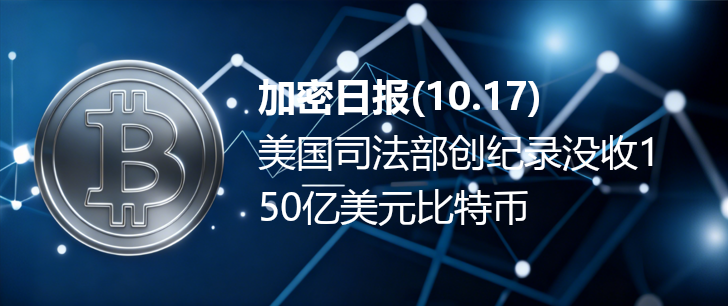
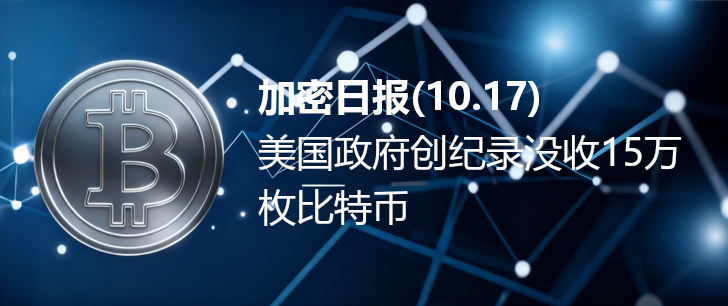
daily_news

Changed region(s): [[0.4533, 0.4412, 0.9368, 0.5588], [0.3324, 0.6176, 0.7253, 0.7353]]

diff --git a/files/latest_summary.md b/files/latest_summary.md
@@ -1,23 +1,21 @@
-### 一、美国政府对加密货币资产的执法与监管行动  
+### 一、美国政府对加密货币犯罪资产的执法行动  
 **总结**：  
-1. 美国司法部对柬埔寨太子集团创始人陈志提起刑事指控，申请没收其控制的127,271枚比特币（市值约150亿美元），为全球最大比特币司法没收案。  
-2. 执法部门通过链上追踪锁定分散于多个私人钱包的比特币，经司法程序（查封令、金融制裁）完成资产合法转移，美国成为全球最大比特币实体持有者之一。  
-3. 太子集团以“产业化诈骗”模式运营，涉及电信诈骗、洗钱等犯罪活动，资金来源与2020年矿企被盗比特币相关，美国同步对146个实体实施制裁。  
-4. 后续监测显示，Chen Zhi关联钱包再次转移价值24亿美元比特币，美国政府或额外扣押，反映链上资产追踪与司法协作的成熟。  
-
+1. 美国司法部宣布对柬埔寨太子集团创始人陈志提起刑事指控，并申请没收其控制的127,271枚比特币（约150亿美元），为全球规模最大的比特币司法没收案。  
+2. 执法部门通过链上追踪锁定分散于多个地址的比特币，依据法律程序将资产转移至政府控制地址，进入司法托管阶段。  
+3. 美国财政部对太子集团实施制裁，英国同步执行资产冻结与旅行禁令，显示跨国执法协作。  
+4. 此次行动标志美国政府成为全球主要比特币实体持有者之一，链上资产主要来源于打击非法活动的执法没收。  
 **参考**：  
-- [150亿美元BTC易主：美司法部剿灭柬埔寨太子集团，摇身一变全球最大BTC巨鲸](https://www.theblockbeats.info/flash/316505)  
-- [Arkham：美国政府或已额外扣押Chen Zhi价值24亿美元BTC](https://www.theblockbeats.info/flash/316505)  
+- [150亿美元BTC易主：美司法部剿灭柬埔寨太子集团，摇身一变全球最大BTC巨鲸 - 36氪](https://m.36kr.com/p/3511623830690694)  
+- [Arkham：美国政府或已额外扣押Chen Zhi价值24亿美元BTC - BlockBeats](https://www.theblockbeats.info/flash/316505)  
 - [150亿美元BTC易主：美司法部剿灭柬埔寨太子集团，摇身一变全球最大BTC巨鲸 - 36氪](https://m.36kr.com/p/3511623830690694)  
 
 
-### 二、比特币价格波动与市场分析  
+### 二、比特币市场分析与价格走势  
 **总结**：  
-1. 比特币近期价格在110,000美元附近波动，面临支撑位与抛售压力，10月10日曾因杠杆多头平仓引发崩盘，短暂跌破110,000美元后反弹至114,000美元以上。  
-2. 市场关注黄金市场泡沫（价格超4,200美元/盎司）对加密货币资金分流影响，若黄金泡沫破裂或利好比特币反弹；美元指数走弱理论上对BTC有利，但当前仍面临沉重抛售压力。  
-3. 技术面显示110,000美元为关键支撑位，若跌破可能引发新一轮下跌，而季节性看涨预期尚未抵消短期市场情绪低迷。  
-
+1. 比特币近期价格波动剧烈，从历史高点126,000美元跌至110,000美元附近，面临关键支撑位110,000美元的考验，存在多次短期突破与回踩。  
+2. 市场受黄金投机泡沫、美元指数走弱等因素影响，黄金价格高位（超4,200美元/盎司）可能吸走部分资金，对比特币反弹形成压力。  
+3. 尽管存在季节性看涨预期，但当前比特币面临沉重抛售压力，技术指标（如RSI、MACD）显示看跌动能增强，市场情绪偏向谨慎。  
+4. 分析指出，若黄金泡沫破裂或美元指数反弹，可能促使资金流入比特币市场，反之则可能进一步下探支撑位。  
 **参考**：  
-- [比特币现金价格预测：在利润回吐和看跌市场信号上升的情况下，BCH风险下跌至450美元](https://www.mitrade.com/cn/insights/news/live-news/article-3-1199758-20251016)  
 - [比特币：另一次崩盘即将到来？](https://cryptonomist.ch/2025/10/16/%E6%AF%94%E7%89%B9%E5%B8%81%EF%BC%9A%E5%8F%A6%E4%B8%80%E6%AC%A1%E5%B4%A9%E7%9B%98%E5%8D%B3%E5%B0%86%E5%88%B0%E6%9D%A5%EF%BC%9F/)  
 - [尽管季节性看涨预期存在，比特币仍面临沉重的抛售压力 - CoinDesk](https://www.coindesk.com/zh/markets/2025/10/16/bitcoin-faces-heavy-selling-pressure-despite-seasonal-bullish-expectations)

diff --git a/files/latest_summary_cleaned.md b/files/latest_summary_cleaned.md
@@ -1,10 +1,10 @@
-### 一、美国政府对加密货币资产的执法与监管行动  
-1. 美国司法部对柬埔寨太子集团创始人陈志提起刑事指控，申请没收其控制的127,271枚比特币（市值约150亿美元），为全球最大比特币司法没收案。  
-2. 执法部门通过链上追踪锁定分散于多个私人钱包的比特币，经司法程序（查封令、金融制裁）完成资产合法转移，美国成为全球最大比特币实体持有者之一。  
-3. 太子集团以“产业化诈骗”模式运营，涉及电信诈骗、洗钱等犯罪活动，资金来源与2020年矿企被盗比特币相关，美国同步对146个实体实施制裁。  
-4. 后续监测显示，Chen Zhi关联钱包再次转移价值24亿美元比特币，美国政府或额外扣押，反映链上资产追踪与司法协作的成熟。  
-
-### 二、比特币价格波动与市场分析  
-1. 比特币近期价格在110,000美元附近波动，面临支撑位与抛售压力，10月10日曾因杠杆多头平仓引发崩盘，短暂跌破110,000美元后反弹至114,000美元以上。  
-2. 市场关注黄金市场泡沫（价格超4,200美元/盎司）对加密货币资金分流影响，若黄金泡沫破裂或利好比特币反弹；美元指数走弱理论上对BTC有利，但当前仍面临沉重抛售压力。  
-3. 技术面显示110,000美元为关键支撑位，若跌破可能引发新一轮下跌，而季节性看涨预期尚未抵消短期市场情绪低迷。  
+### 一、美国政府对加密货币犯罪资产的执法行动  
+1. 美国司法部宣布对柬埔寨太子集团创始人陈志提起刑事指控，并申请没收其控制的127,271枚比特币（约150亿美元），为全球规模最大的比特币司法没收案。  
+2. 执法部门通过链上追踪锁定分散于多个地址的比特币，依据法律程序将资产转移至政府控制地址，进入司法托管阶段。  
+3. 美国财政部对太子集团实施制裁，英国同步执行资产冻结与旅行禁令，显示跨国执法协作。  
+4. 此次行动标志美国政府成为全球主要比特币实体持有者之一，链上资产主要来源于打击非法活动的执法没收。  
+### 二、比特币市场分析与价格走势  
+1. 比特币近期价格波动剧烈，从历史高点126,000美元跌至110,000美元附近，面临关键支撑位110,000美元的考验，存在多次短期突破与回踩。  
+2. 市场受黄金投机泡沫、美元指数走弱等因素影响，黄金价格高位（超4,200美元/盎司）可能吸走部分资金，对比特币反弹形成压力。  
+3. 尽管存在季节性看涨预期，但当前比特币面临沉重抛售压力，技术指标（如RSI、MACD）显示看跌动能增强，市场情绪偏向谨慎。  
+4. 分析指出，若黄金泡沫破裂或美元指数反弹，可能促使资金流入比特币市场，反之则可能进一步下探支撑位。  
